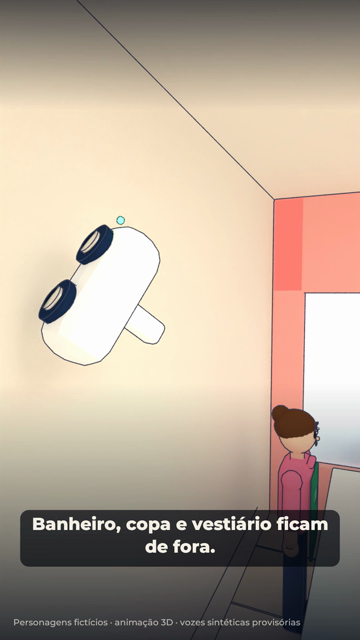
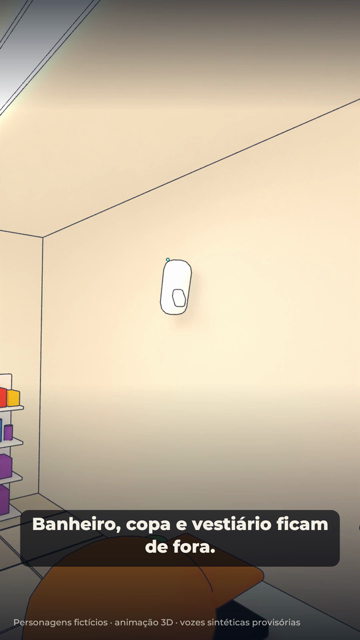
Comerciais: episódio 'O cliente chegou antes' renderizado — storyboard, roteiro de cenas e legendas
Claude-Session: https://claude.ai/code/session_01RTGPTzQ4JgcFjuN5yBUw9R

diff --git a/skills/conteudo-semanal/videos/comerciais/ep16-o-cliente-chegou-antes/storyboard.md b/skills/conteudo-semanal/videos/comerciais/ep16-o-cliente-chegou-antes/storyboard.md
@@ -1,0 +1,75 @@
+# Storyboard — O cliente chegou antes de todo mundo!
+
+1080x1920 (9:16), 24 fps · 50 s · produto: Câmera Wi-Fi Infinity Guard — Kit com 2 Unidades, Dupla Lente e Visão Noturna · CTA: Conheça as câmeras da Infinity Guard em infinityguard.com.br. · infinityguard.com.br
+
+Personagens fictícios: **Rosa** — dona da loja de variedades, pele clara, cabelo castanho em coque, blusa rosa e avental verde (fictícia); **Júlia** — funcionária, pele negra, rabo de cavalo, blusa clara e avental verde (fictícia); **Paulo** — cliente, pele morena, boné laranja, camisa azul (fictício)
+
+Narrador: kokoro:pm_alex — **PROVISÓRIA**: voz Dave não disponível: nenhuma ferramenta de áudio com a Dave configurada (falta voz_dave/ com AUTORIZACAO.txt e um arquivo por fala do narrador)
+
+## 1. Chegou cedo (0–5 s · tomada L1 (0–2.6 s), L2 (2.6–5 s))
+
+![seg1](storyboard/seg1.png)
+
+- **Ação:** Rua de comércio de bairro, calçada de pedras em ondas. Paulo chega à Variedades da Rosa e encontra a porta de enrolar fechada (placa: abre às 8h). Corte para close: ele olha o relógio.
+- **Câmera:** Plano aberto da calçada acompanhando Paulo; corte para close com fundo desfocado.
+- **narrador** (0.4 s): "Seu cliente chegou antes de você. Como organizar melhor a rotina do seu comércio?"
+- **Tela** (0.4 s): O cliente chegou antes de todo mundo!
+
+## 2. A loja abre (5–15 s · tomada L3 (5–9 s), L4 (9–15 s))
+
+![seg2](storyboard/seg2.png)
+
+- **Ação:** A porta de enrolar sobe, Rosa acena e convida Paulo a entrar. Corte para dentro: Rosa no caixa conversa com Júlia sobre acompanhar a entrada e o caixa; Paulo escolhe produtos ao fundo.
+- **Câmera:** Da calçada para dentro da loja; depois plano interno com os três em quadro.
+- **Rosa** (5.6 s): "Bom dia! Desculpa a demora, pode entrar."
+- **Rosa** (9.3 s): "Júlia, vamos acompanhar melhor a entrada e o caixa?"
+- **Júlia** (12.3 s): "Boa! Mas banheiro e estoque ficam de fora, né?"
+
+## 3. Planejamento (15–29 s · tomada L5 (15–23 s), L6 (23–29 s))
+
+![seg3](storyboard/seg3.png)
+
+- **Ação:** Vista de cima da loja: o campo de visão de uma câmera cobre a entrada e o de outra cobre o caixa; o banheiro e o estoque aparecem marcados como área privada, sem câmera. Depois, a câmera na parede e a equipe atendendo normalmente.
+- **Câmera:** Plano de cima girando devagar; corte para a câmera na parede e depois para o balcão.
+- **narrador** (15.4 s): "Primeiro, o planejamento: câmera só nas áreas de atendimento, como a entrada e o caixa."
+- **narrador** (21.2 s): "Banheiro, copa e vestiário ficam de fora."
+- **narrador** (23.9 s): "A câmera ajuda a acompanhar a rotina. Não substitui a sua equipe nem o atendimento."
+- **Tela** (16.6 s): Entrada
+- **Tela** (18.1 s): Caixa
+- **Tela** (20.9 s): Banheiro e estoque: sem câmera
+
+## 4. O produto (29–41 s · tomada K1)
+
+![seg4](storyboard/seg4.png)
+
+- **Ação:** Kit com 2 câmeras de lente dupla girando no pedestal; cartão com nome, destaques, requisitos de conexão, preço, Pix, parcelas e frete por CEP, tudo do catálogo.
+- **Câmera:** Câmera de estúdio girando devagar em volta do pedestal.
+- **narrador** (29.4 s): "Sua loja tem necessidades próprias. Escolha um equipamento compatível com seu espaço."
+- **narrador** (34.8 s): "Câmera Wi-Fi Infinity Guard: kit com duas câmeras, dupla lente e visão noturna."
+- **Tela** (29.6 s): cartão do produto — Câmera Wi-Fi Infinity Guard — Kit com 2 Unidades, Dupla Lente e Visão Noturna; destaques: kit com 2 câmeras, dupla lente, visão noturna; preço do catálogo de 2026-10-18; requisitos: Wi-Fi no local, tomada perto
+
+## 5. Atendimento de sempre (41–45 s · tomada L7)
+
+![seg5](storyboard/seg5.png)
+
+- **Ação:** Rosa entrega a sacola a Paulo no balcão, ele agradece e sai; Júlia arruma as prateleiras. O produto aparece num selo no canto.
+- **Câmera:** Plano do balcão com os dois de perfil.
+- **Rosa** (41.6 s): "Aqui está. Volte sempre!"
+- **Paulo** (43.7 s): "Obrigado, até amanhã!"
+
+## 6. Encerramento (45–50 s · tomada cartela)
+
+![seg6](storyboard/seg6.png)
+
+- **Ação:** Logo original navy e dourado com o slogan, o kit, o site e o CTA.
+- **Câmera:** Cartela fixa com entrada suave.
+- **narrador** (45.5 s): "Conheça as câmeras da Infinity Guard em infinityguard.com.br."
+- **Tela** (45.4 s): kit, logo original com o slogan, infinityguard.com.br e o CTA
+
+## Regras do episódio
+
+- Personagens fictícios; sem rosto ou avatar do proprietário.
+- Câmeras só em áreas comerciais (entrada e caixa); banheiro, estoque, copa e vestiário ficam de fora.
+- Não mostrar visualização de imagens no aplicativo: a função não está confirmada no catálogo para este modelo.
+- Não sugerir que a câmera substitui atendimento, equipe ou segurança física.
+- Preço, recursos, requisitos e frete saem do catálogo (frete: só o cálculo por CEP, que é o que o catálogo confirma).

diff --git a/skills/conteudo-semanal/videos/comerciais/ep16-o-cliente-chegou-antes/roteiro_de_cenas.md b/skills/conteudo-semanal/videos/comerciais/ep16-o-cliente-chegou-antes/roteiro_de_cenas.md
@@ -1,0 +1,10 @@
+# Roteiro de cenas — O cliente chegou antes de todo mundo!
+
+| Tempo | Tomada 3D | O que acontece | Fala | Tela |
+|---|---|---|---|---|
+| 0–5 s | L1, L2 | Rua de comércio de bairro, calçada de pedras em ondas. Paulo chega à Variedades da Rosa e encontra a porta de enrolar fechada (placa: abre às 8h). Corte para close: ele olha o relógio. | 0.4 s **narrador**: Seu cliente chegou antes de você. Como organizar melhor a rotina do seu comércio? | 0.4 s O cliente chegou antes de todo mundo! |
+| 5–15 s | L3, L4 | A porta de enrolar sobe, Rosa acena e convida Paulo a entrar. Corte para dentro: Rosa no caixa conversa com Júlia sobre acompanhar a entrada e o caixa; Paulo escolhe produtos ao fundo. | 5.6 s **Rosa**: Bom dia! Desculpa a demora, pode entrar.<br>9.3 s **Rosa**: Júlia, vamos acompanhar melhor a entrada e o caixa?<br>12.3 s **Júlia**: Boa! Mas banheiro e estoque ficam de fora, né? |  |
+| 15–29 s | L5, L6 | Vista de cima da loja: o campo de visão de uma câmera cobre a entrada e o de outra cobre o caixa; o banheiro e o estoque aparecem marcados como área privada, sem câmera. Depois, a câmera na parede e a equipe atendendo normalmente. | 15.4 s **narrador**: Primeiro, o planejamento: câmera só nas áreas de atendimento, como a entrada e o caixa.<br>21.2 s **narrador**: Banheiro, copa e vestiário ficam de fora.<br>23.9 s **narrador**: A câmera ajuda a acompanhar a rotina. Não substitui a sua equipe nem o atendimento. | 16.6 s Entrada<br>18.1 s Caixa<br>20.9 s Banheiro e estoque: sem câmera |
+| 29–41 s | K1 | Kit com 2 câmeras de lente dupla girando no pedestal; cartão com nome, destaques, requisitos de conexão, preço, Pix, parcelas e frete por CEP, tudo do catálogo. | 29.4 s **narrador**: Sua loja tem necessidades próprias. Escolha um equipamento compatível com seu espaço.<br>34.8 s **narrador**: Câmera Wi-Fi Infinity Guard: kit com duas câmeras, dupla lente e visão noturna. | 29.6 s produto |
+| 41–45 s | L7 | Rosa entrega a sacola a Paulo no balcão, ele agradece e sai; Júlia arruma as prateleiras. O produto aparece num selo no canto. | 41.6 s **Rosa**: Aqui está. Volte sempre!<br>43.7 s **Paulo**: Obrigado, até amanhã! | 42.0 s selo_produto |
+| 45–50 s | — | Logo original navy e dourado com o slogan, o kit, o site e o CTA. | 45.5 s **narrador**: Conheça as câmeras da Infinity Guard em infinityguard.com.br. | 45.4 s encerramento |

diff --git a/skills/conteudo-semanal/videos/comerciais/README.md b/skills/conteudo-semanal/videos/comerciais/README.md
@@ -9,7 +9,14 @@ brasileiro, formato vertical 1080x1920 e CTA para **infinityguard.com.br**. Usa 
 | Pasta | Título | Situação |
 |---|---|---|
 | `ep15-quem-deixou-isso-na-porta/` | Quem deixou isso na porta? (50 s) | roteiro, storyboard, legendas e render prontos; narração **provisória** (sem Dave) |
-| — | outros 4 episódios | aguardando `episodios.md` (não existe no repositório) |
+| `ep16-o-cliente-chegou-antes/` | O cliente chegou antes de todo mundo! (50 s, loja de bairro) | pronto, com efeitos sonoros, cortes de câmera e personagens mais expressivos; narração **provisória** (sem Dave) |
+| — | outros 3 episódios | aguardando `episodios.md` (não existe no repositório) |
+
+Cenários prontos: `varanda` (casa térrea com porta, encomenda e vizinho), `loja` (comércio de bairro com porta de
+enrolar, caixa e área privada) e `kit_dupla` (o produto no pedestal). Efeitos sonoros e ambiente saem de `sons.py`
+(lista `"sons"` no episodio.json). Opções do episodio.json: `tomadas` (vários cortes por segmento), `logo`
+(`circular` ou horizontal), `mostrar_frete` (só o cálculo por CEP, que é o que o catálogo confirma),
+`tomada_produto` e `qualidade` (`samples`, `resolucao_3d`).
 
 Cada episódio é uma pasta com três arquivos escritos à mão:
 
